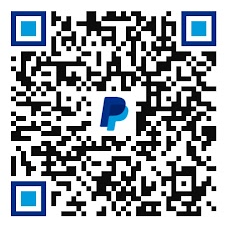
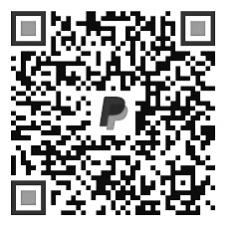
update gift layout, assets

diff --git a/src/components/Part/Gift.vue b/src/components/Part/Gift.vue
@@ -6,10 +6,26 @@ const md = markdownit()
 </script>
 
 <template>
-  <h2 my-3 text-4xl text-secondary>
-    {{ t('gift.title') }}
-  </h2>
-  <div max-w-md prose v-html="md.render(t('gift.description'))" />
-  <img src="/venmo.png" alt="Gift_v">
-  <img src="/paypal.png" alt="Gift_p">
+  <div max-w-6xl w-full flex flex-col gap-6 py-32 lg:flex-row lg:gap-16>
+    <div w-full lg="w-1/2">
+      <h2 my-3 text-4xl text-secondary>
+        {{ t('gift.title') }}
+      </h2>
+      <div max-w-md prose v-html="md.render(t('gift.description'))" />
+    </div>
+    <div lg="w-1/2" w-full flex items-center gap-8>
+      <img
+        src="/venmo.png"
+        alt="Gift_v"
+        :class="isDark ? 'filter-invert mix-blend-screen' : 'mix-blend-multiply'"
+        h-40 w-40
+      >
+      <img
+        src="/paypal.png"
+        alt="Gift_p"
+        :class="isDark ? 'filter-invert mix-blend-screen' : 'mix-blend-multiply'"
+        h-40 w-40
+      >
+    </div>
+  </div>
 </template>

diff --git a/src/pages/index.vue b/src/pages/index.vue
@@ -91,7 +91,7 @@ provide('bounding', bounding)
     <AFigure src="/slide/slide_14.jpg" style="--c: 3; --r: 22; --s: 3" aspect-video />
     <section h-24 style="--s: 8; --c: 1; --r: 23" />
 
-    <section id="gift" :ref="refs.set" p-4 style="--s: 4; --c: 4; --r: 27">
+    <section id="gift" :ref="refs.set" style="--s: 8; --c: 1; --r: 27" flex-center p-4 sm:pl-40>
       <PartGift />
     </section>
 
